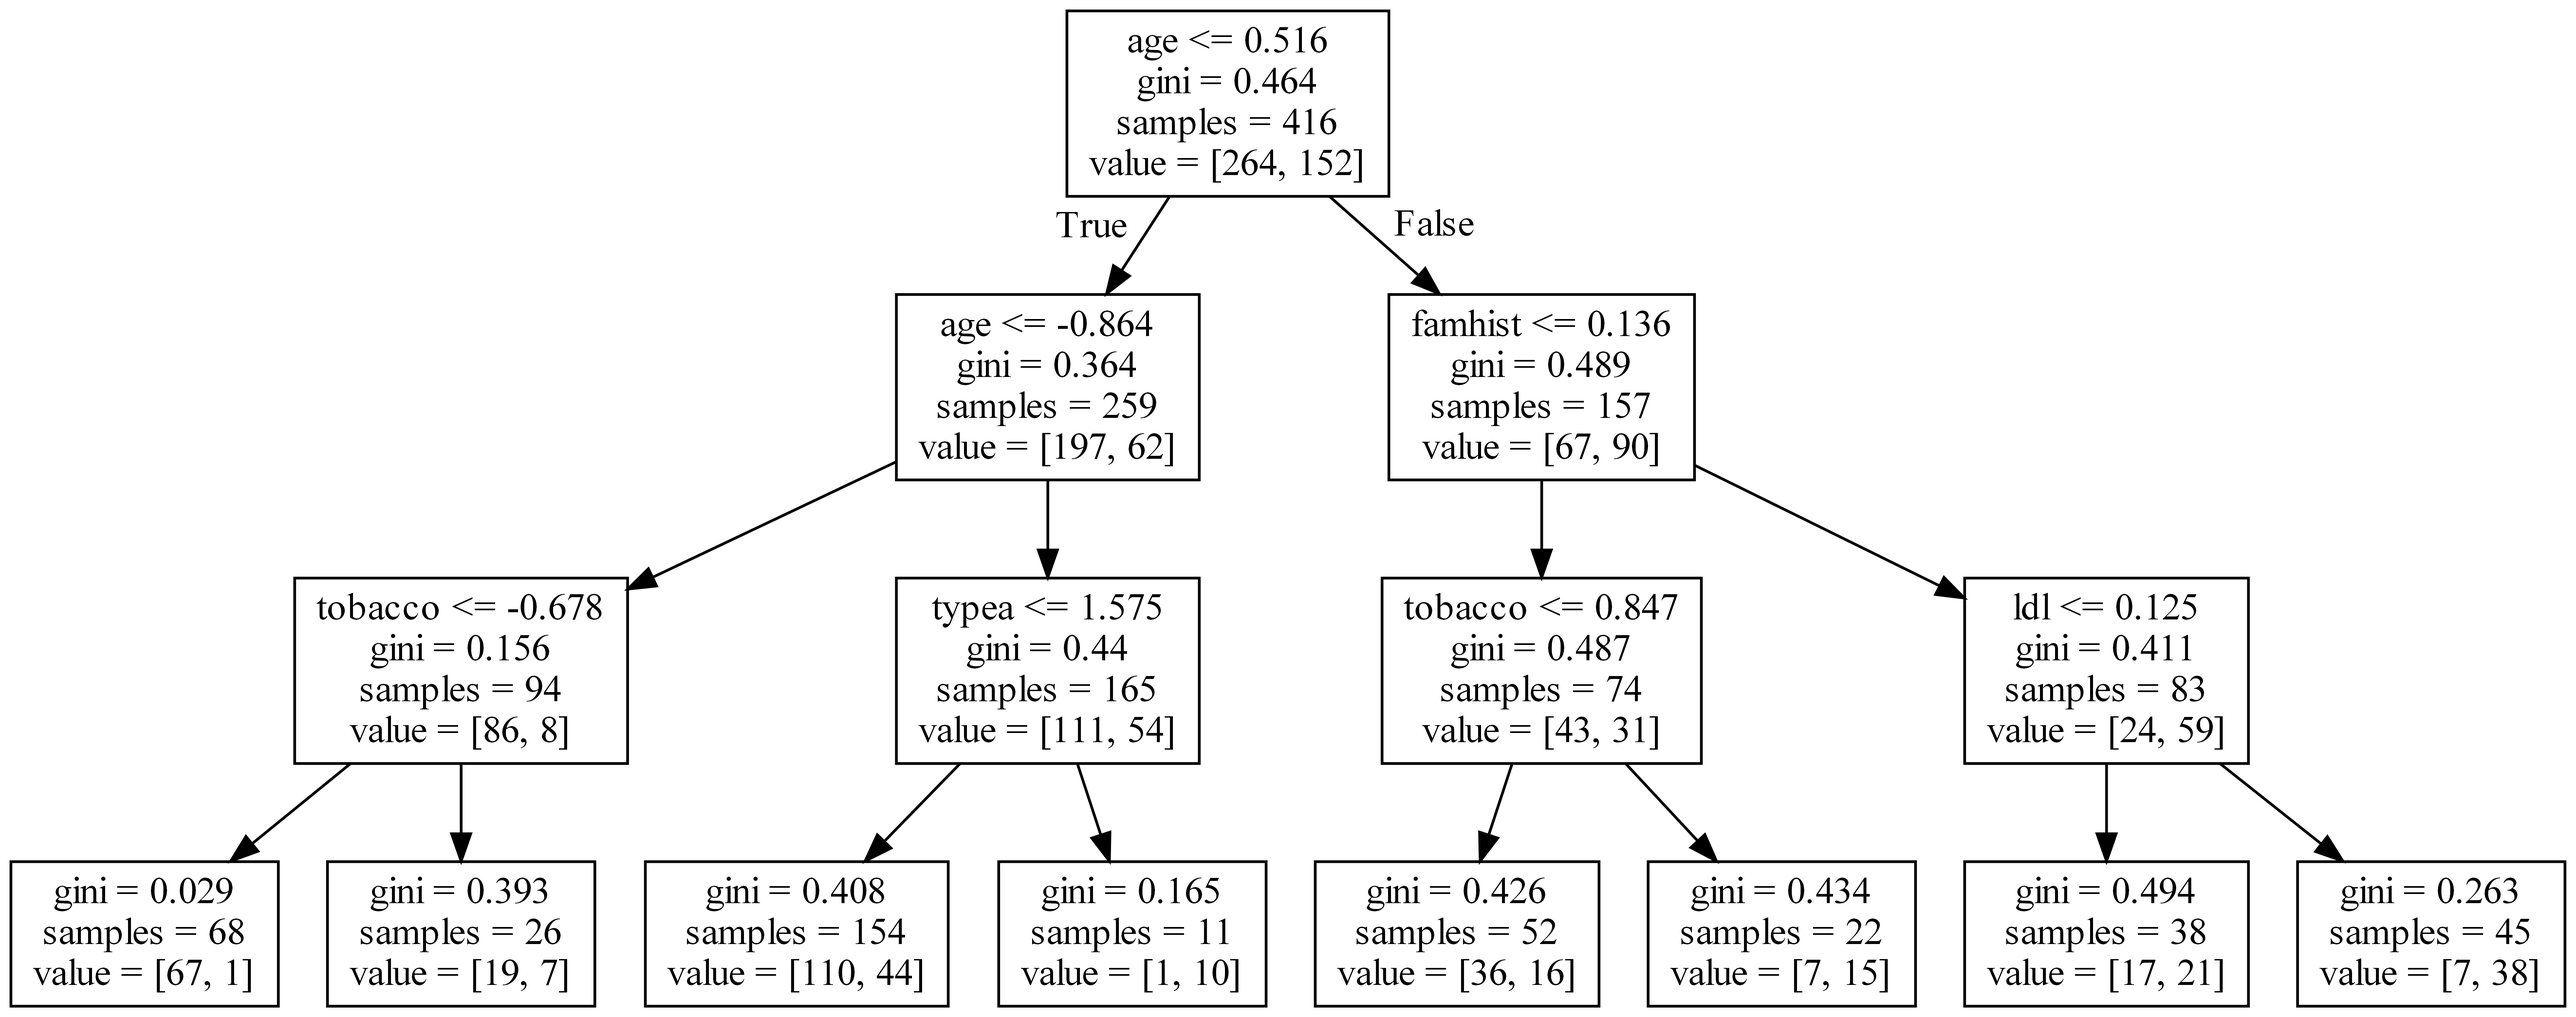
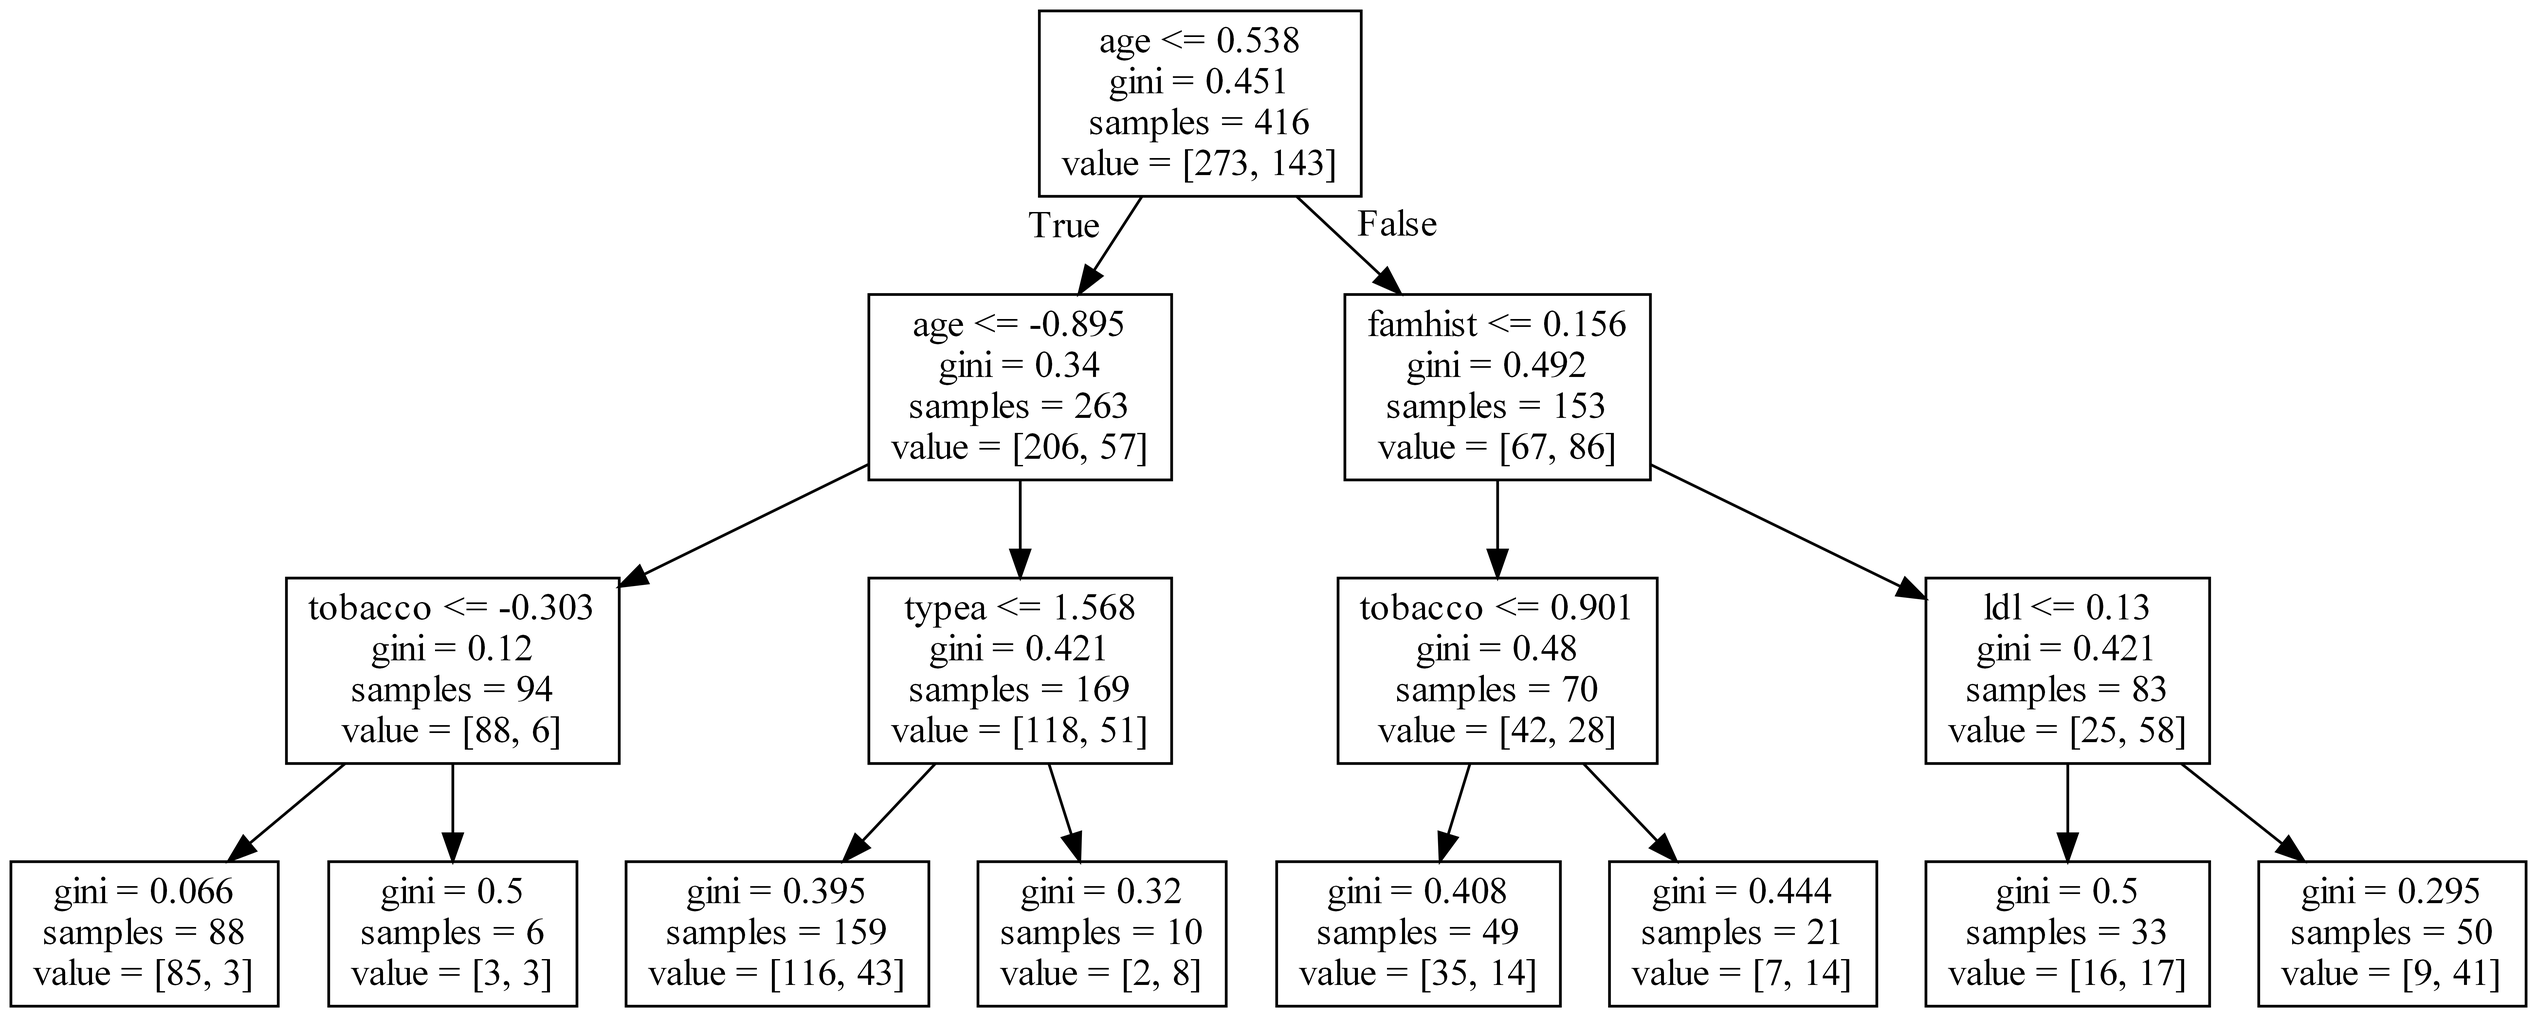
Classification doneso!!!

diff --git a/report2_classification.py b/report2_classification.py
@@ -16,6 +16,8 @@ from matplotlib.image import imread
 from sklearn import metrics
 from sklearn.dummy import DummyClassifier
 from scipy import stats
+from toolbox_02450 import mcnemar
+
 
 # read the data into python
 df = pd.read_csv("http://www-stat.stanford.edu/~tibs/ElemStatLearn/datasets/SAheart.data",
@@ -41,69 +43,41 @@ Xr[:,4] = np.array([famHistDict[cl] for cl in famHistLable])
 Xr = Xr.astype(np.float)
 
 attributeNames = np.asarray(df.columns[range(1, 11)])
-## a short version of attributenames:
-attributeNamesShort = [None] * 10
-for i in range(len(attributeNames)):
-    attributeNamesShort[i] = (attributeNames[i])[:3]
-    
 N, M = X.shape
-
-# make array of all atributes
-Xall = np.zeros((N,M+1))
-Xall[:,0:M] = Xr
-Xall[:,M] = y
-
 
 #Make standadized values of Xr (subtract mean and devide by standard deviation)
 Xr_stand = stats.zscore(Xr)
 
 
-
-
 ################ Classification ##################
 
-#X_train, X_test, y_train, y_test = train_test_split(Xr, y, test_size=.95, stratify=y)
-
-# Try to change the test_size to e.g. 50 % and 99 % - how does that change the 
-# effect of regularization? How does differetn runs of  test_size=.99 compare 
-# to eachother?
-
-K = 10
+K = 10 #This is for both inner and outer CV split
 CV = model_selection.KFold(K, shuffle=True)
-#CV = model_selection.KFold(K, shuffle=False)
 
 # Values of lambda
 lambda_interval = np.logspace(-2, 3, 10)
 
+# Values of dt depth
+max_depth_range = range(2,20)
+
 # Initialize variables
-#T = len(lambdas)
 mu = np.empty((K, M-1))
 sigma = np.empty((K, M-1))
 
-baseline_test_error_rate = np.empty(K)
-
-opt_lambda_idx_folds = np.empty(K)
-opt_lambda_fold_internal = np.empty(K)
-opt_lambda_fold = np.empty(K)
 all_lr_mdl = []
 all_dt_mdl = []
+all_baseline_mdl = []
 
-# train_error_rate_fold = np.empty((K))
-# test_error_rate_fold = np.empty((K))
-train_error_rate_fold = np.empty((len(lambda_interval),K))
-test_error_rate_fold = np.empty((len(lambda_interval),K))
 min_test_errors_lr = np.empty((K))
 min_test_errors_dt = np.empty((K))
-
-max_depth_range = range(2,20)
-parameters = {'max_depth':range(2,20)}
-criterion='gini'
-
+baseline_test_error_rate = np.empty(K)
 decisiontree_test_error_rate = np.empty(K)
 
-lr_mdls = []
-dt_mdls = []
-
+# for CI and p values
+yhat_baseline = []
+yhat_lr = []
+yhat_dt = []
+y_true = []
 
 c=0
 for train_index, test_index in CV.split(Xr,y):
@@ -125,15 +99,18 @@ for train_index, test_index in CV.split(Xr,y):
     # fit model
     baselinemdl.fit(X_train, y_train)
     
+    all_baseline_mdl.append(baselinemdl)
     baseline_test_error_rate[c] = np.sum((baselinemdl.predict(X_test)) != y_test) / len(y_test)
     
+    yhat_baseline.append(baselinemdl.predict(X_test))
+    
+    ##Innerfold
     Egen_lr = np.empty((len(lambda_interval)))
     Egen_dt = np.empty((len(max_depth_range)))
     
     Internalmodel_lr = []
     Internalmodel_dt = []
     
-    ##Innerfold
     train_error_rate_internal_lr = np.zeros((len(lambda_interval),K))
     test_error_rate_internal_lr = np.zeros((len(lambda_interval),K))
     
@@ -150,15 +127,11 @@ for train_index, test_index in CV.split(Xr,y):
         X_train_internal = stats.zscore(X_train_internal)
         X_test_internal = stats.zscore(X_test_internal)
         
-        ##logistic regression
-        # Fit regularized logistic regression model to training data to predict 
-        # the type of wine
-        internal_lr_mdls = []
+        ##logistic regression model loop
         coefficient_norm = np.zeros(len(lambda_interval))
         count = 0
         for k in range(0, len(lambda_interval)):
             
-            ## Logistic regression 
             mdl_lr = LogisticRegression(penalty='l2', C=1/lambda_interval[k] )
             
             mdl_lr.fit(X_train_internal, y_train_internal)
@@ -177,7 +150,7 @@ for train_index, test_index in CV.split(Xr,y):
             
             count += 1
         
-        
+        ## decision tree model loop
         count = 0
         for k in max_depth_range:
             dt_mdl = tree.DecisionTreeClassifier(max_depth=k)
@@ -193,6 +166,7 @@ for train_index, test_index in CV.split(Xr,y):
             count += 1
             
     
+    # training outer model and findeing test error for logistic regression
     count = 0
     for errorsmdl in test_error_rate_internal_lr:
         Egen_lr[count] = (sum(errorsmdl))*(len(test_index_internal)/len(train_index))
@@ -207,6 +181,8 @@ for train_index, test_index in CV.split(Xr,y):
     
     y_train_est = mdl_lr.predict(X_train).T
     y_test_est = mdl_lr.predict(X_test).T
+    
+    yhat_lr.append(y_test_est)
     
     min_test_errors_lr[c] = np.sum(y_test_est != y_test) / len(y_test)    
     
@@ -224,27 +200,36 @@ for train_index, test_index in CV.split(Xr,y):
 
     y_test_est_dt = mdl_dt.predict(X_test)
     
+    yhat_dt.append(y_test_est_dt)
+    
     min_test_errors_dt[c] = np.sum(y_test_est_dt != y_test) / len(y_test)
+    
+    y_true.append(y_test)
     
     c+=1
     
 
+yhat_baseline = np.concatenate(yhat_baseline)
+yhat_lr = np.concatenate(yhat_lr)
+yhat_dt = np.concatenate(yhat_dt)
+y_true = np.concatenate(y_true)
+
+
 # save min error and best model
+min_index_lr = np.argmin(min_test_errors_lr)
 min_error_lr = np.min(min_test_errors_lr)
-best_mdl_lr = all_lr_mdl[np.argmin(min_test_errors_lr)]
+best_mdl_lr = all_lr_mdl[min_index_lr]
 
+min_index_dt = np.argmin(min_test_errors_dt)
 min_error_dt = np.min(min_test_errors_dt)
-best_mdl_dt = all_dt_mdl[np.argmin(min_test_errors_dt)]
+best_mdl_dt = all_dt_mdl[min_index_dt]
 
-for mdl_tmp in all_dt_mdl:
-    print("Max depth is: {0}".format(mdl_tmp.get_depth()))
-
+min_index_baseline = np.argmin(baseline_test_error_rate)
 
 # plot for the last internal fold
 min_error = np.min(test_error_rate_internal_lr[:,3])
 opt_lambda_idx = np.argmin(test_error_rate_internal_lr[:,3])
 opt_lambda = lambda_interval[opt_lambda_idx]
-
 
 plt.figure(figsize=(8,8))
 plt.semilogx(lambda_interval, train_error_rate_internal_lr[:,3]*100)
@@ -267,10 +252,8 @@ plt.title('Parameter vector L2 norm')
 plt.grid()
 plt.show()
 
-### Decision tree
-# plot a decision tree
-fname='tree_' + criterion + '_CHD_data'
-# Export tree graph .gvz file to parse to graphviz
+# plot the best decision tree
+fname='tree_' + 'gini' + '_CHD_data'
 out = tree.export_graphviz(best_mdl_dt, out_file=fname + '.gvz', feature_names=attributeNames[0:9])
 
 if system() == 'Windows':
@@ -287,10 +270,40 @@ if system() == 'Windows':
 
 
 
+### print important results
 
+print("------------ Logistic regression ------------")
+count = 0
+for mdl_tmp in all_lr_mdl:
+    print("lamda choosen is: {0} with test error: {1}".format('{0:.5f}'.format(mdl_tmp.C*10),min_test_errors_lr[count]))
+    count += 1
 
+print("------------ Decision tree ------------")
+count = 0
+for mdl_tmp in all_dt_mdl:
+    print("Max depth is: {0} with test error: {1}".format(mdl_tmp.get_depth(),min_test_errors_dt[count]))
+    count += 1
 
+print("------------ Baseline model------------")
+count = 0
+for mdl_tmp in all_baseline_mdl:
+    print("Baseline with test error: {0}".format(baseline_test_error_rate[count]))
+    count += 1
 
+## CI and p-value using mcnemar test
+alpha = 0.05
+
+## lr and baseline
+[thetahat_lr_base, CI_lr_base, p_lr_base] = mcnemar(y_true, yhat_lr, yhat_baseline, alpha=alpha)
+print("theta = theta_lr-theta_baseline point estimate", thetahat_lr_base, " CI: ", CI_lr_base, "p-value", p_lr_base)
+
+## lr and dt
+[thetahat_lr_dt, CI_lr_dt, p_lr_dt] = mcnemar(y_true, yhat_lr, yhat_dt, alpha=alpha)
+print("theta = theta_lr-theta_dt point estimate", thetahat_lr_dt, " CI: ", CI_lr_dt, "p-value", p_lr_dt)
+
+## dt and baseline
+[thetahat_dt_base, CI_dt_base, p_dt_base] = mcnemar(y_true, yhat_dt, yhat_baseline, alpha=alpha)
+print("theta = theta_dt-theta_baseline point estimate", thetahat_dt_base, " CI: ", CI_dt_base, "p-value", p_dt_base)
 
 
 
